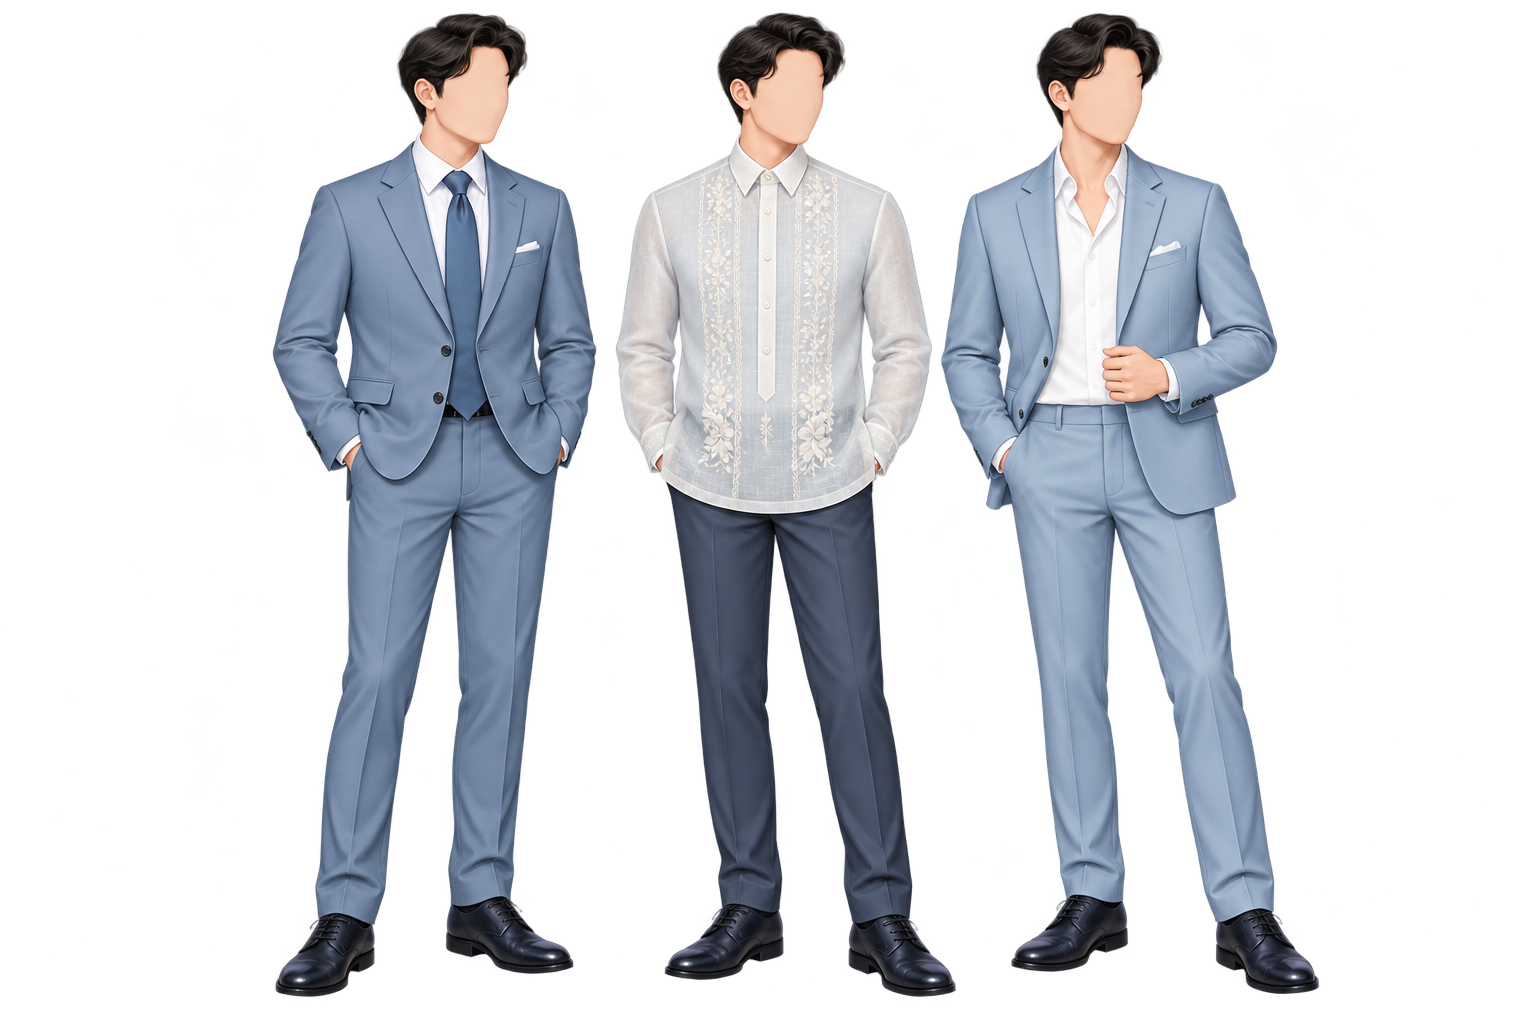
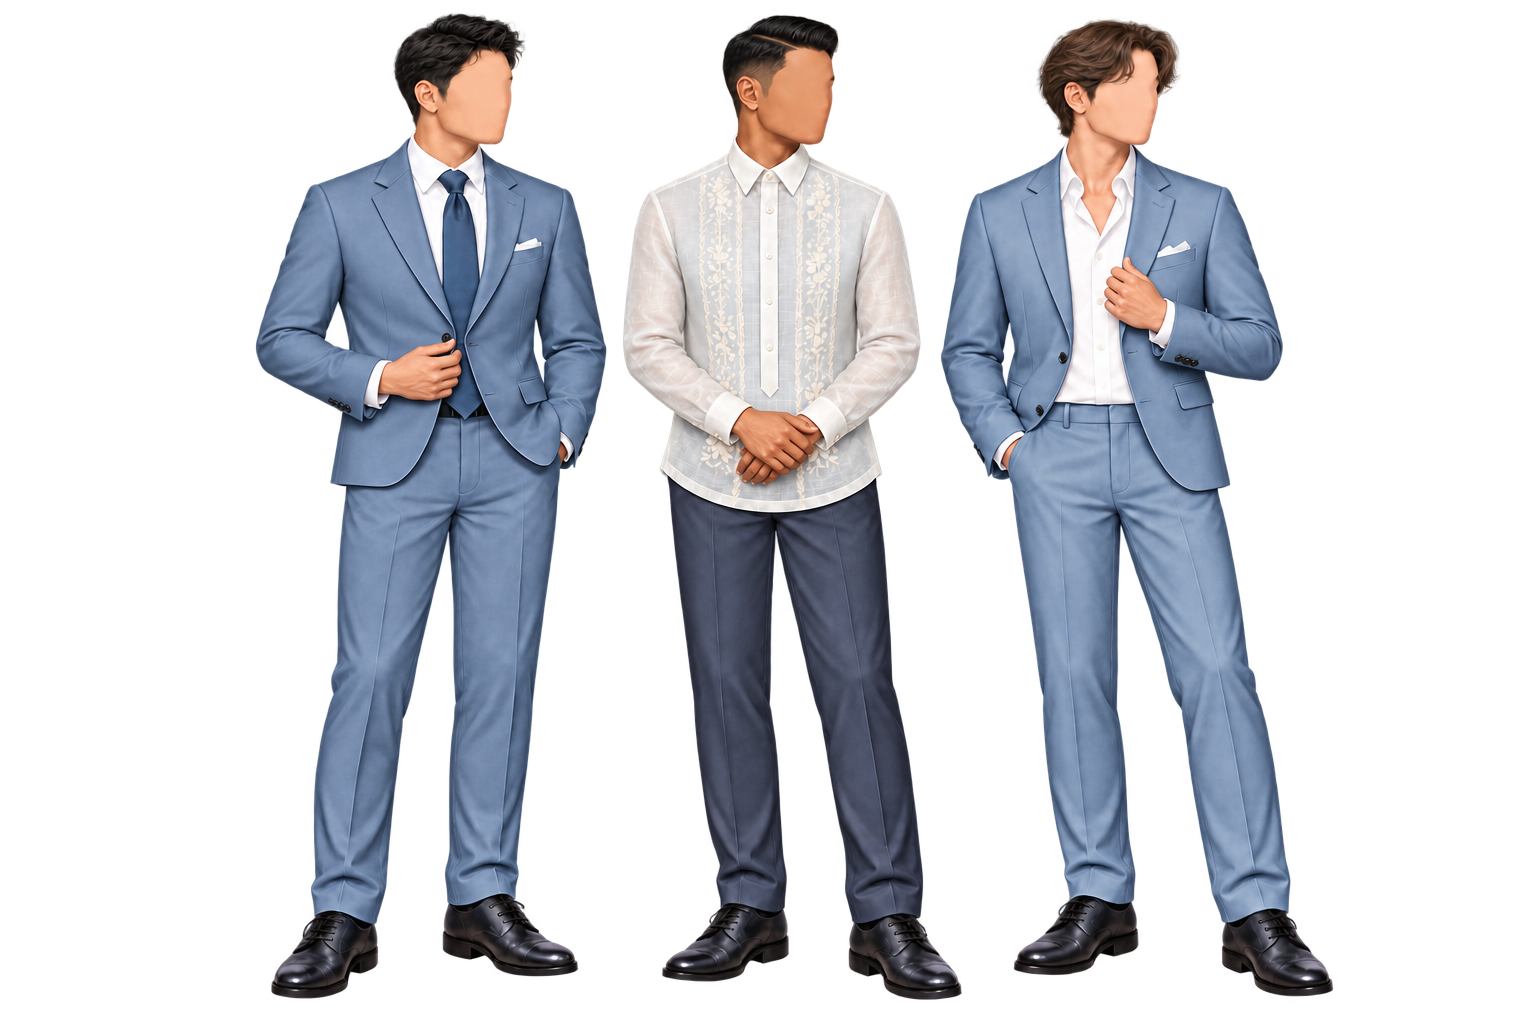
Adjusted the images

diff --git a/components/Hero.tsx b/components/Hero.tsx
@@ -24,7 +24,8 @@ export default function Hero({ variant = 1 }: { variant?: 1 | 2 | 3 }) {
         priority
         quality={90}
         sizes="100vw"
-        className="object-cover object-center scale-[1.01]"
+        className="object-cover scale-[1.01]"
+        style={{ objectPosition: "20% center" }}
       />
       <div className="absolute inset-0 bg-gradient-to-b from-dusty-900/45 via-dusty-900/40 to-dusty-900/85" />
       <div className={`absolute inset-0 ${leftAligned ? "bg-gradient-to-r from-dusty-900/65 via-dusty-900/15 to-transparent" : "bg-[radial-gradient(circle_at_center,transparent_5%,rgba(38,54,68,0.28)_65%)]"}`} />
